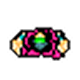
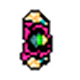
rotate player, walls(not finnished)

diff --git a/maze.py b/maze.py
@@ -1,14 +1,13 @@
-#створи гру "Лабіринт"!
+
 from pygame import *
-import random 
+import random
+import math
 init()
 font.init()
 mixer.init()
 
 
-# kick_sound = mixer.Sound('kick.ogg')
-# kick_sound.set_volume(0.5)
-#money_sound = mixer.Sound('money.ogg')
+
 
 FONT = 'PressStart2P-Regular.ttf'
 
@@ -26,6 +25,7 @@ display.set_caption("Catch_up")
 clock = time.Clock()
 
 
+
 #задай фон сцени
 bg = image.load("using images/Bg.png")
 bg = transform.scale(bg, (WIDTH, HEIGHT))
@@ -36,6 +36,17 @@ floor3_img = image.load("using images/floor_3 (3).png")
 floor4_img = image.load("using images/floor_4.png")
 floor5_img = image.load("using images/floor_5.png")
 floor6_img = image.load("using images/floor_6.png")
+left_wall_img = image.load("using images/left_wall (3).png")
+right_wall_img = image.load("using images/right_wall (1).png")
+top_wall_img = image.load("using images/top_wall (2).png")
+bottom_wall_img = image.load("using images/bottom_wall (4).png")
+
+
+
+
+
+
+ 
 #enemy_img = image.load("cyborg.png")
 treasure_img = image.load("treasure.png")
 
@@ -73,6 +84,9 @@ def move_map(shift_x= 0, shift_y=0):
         s.rect.x += shift_x
         s.rect.y += shift_y
 
+
+
+
 class Player(BaseSprite):
     def __init__(self, image, x, y, width, height):
         super().__init__(image, x, y, width, height)
@@ -80,6 +94,7 @@ class Player(BaseSprite):
         self.left_image = transform.flip(self.image,True, False)
         self.damage_timer = time.get_ticks()       
         self.speed = 15
+        self.original_image = self.image
         self.hp = 100
         self.coins_counter = 0
 
@@ -114,8 +129,6 @@ class Player(BaseSprite):
                 self.rect.y += self.speed
         move_map(shift_x, shift_y)
 
-
-
         # coll_list = sprite.spritecollide(self, enemys, False, sprite.collide_mask)
         # if len(coll_list)>0:
         #     now = time.get_ticks()
@@ -126,6 +139,23 @@ class Player(BaseSprite):
         #         kick_sound.play()
             
         #     self.rect.x, self.rect.y = old_pos
+
+
+        self.rotate()
+    
+
+
+    def rotate(self):
+        mouse_x, mouse_y = mouse.get_pos()
+        player_x = self.rect.centerx
+        player_y = self.rect.centery
+        angle = math.atan2(mouse_y-player_y, mouse_x-player_x)
+        self.image = transform.rotate(self.original_image, -math.degrees(angle))
+        self.rect = self.image.get_rect(center=self.rect.center)
+        self.mask = mask.from_surface(self.image)
+
+
+        
             
 
 
@@ -165,7 +195,7 @@ all_labels.remove(restart_text)
 hp_label = Label(f"HP:{player1.hp}", 10, 10, fontsize=20)
 floors = sprite.Group()
 enemys = sprite.Group()
-emptys = sprite.Group()
+walls = sprite.Group()
 def game_start():
     global treasure, run, finish
     for floor1 in floors:
@@ -236,8 +266,8 @@ def game_start():
         for row in map:
             for symbol in row:
 
-                if symbol=='W':
-                    floors.add(BaseSprite(floor1_img, x, y, TILE_SIZE, TILE_SIZE))
+                if symbol=='1':
+                    walls.add(BaseSprite(top_wall_img, x, y, TILE_SIZE, TILE_SIZE))
                 
 
                 x+=TILE_SIZE
